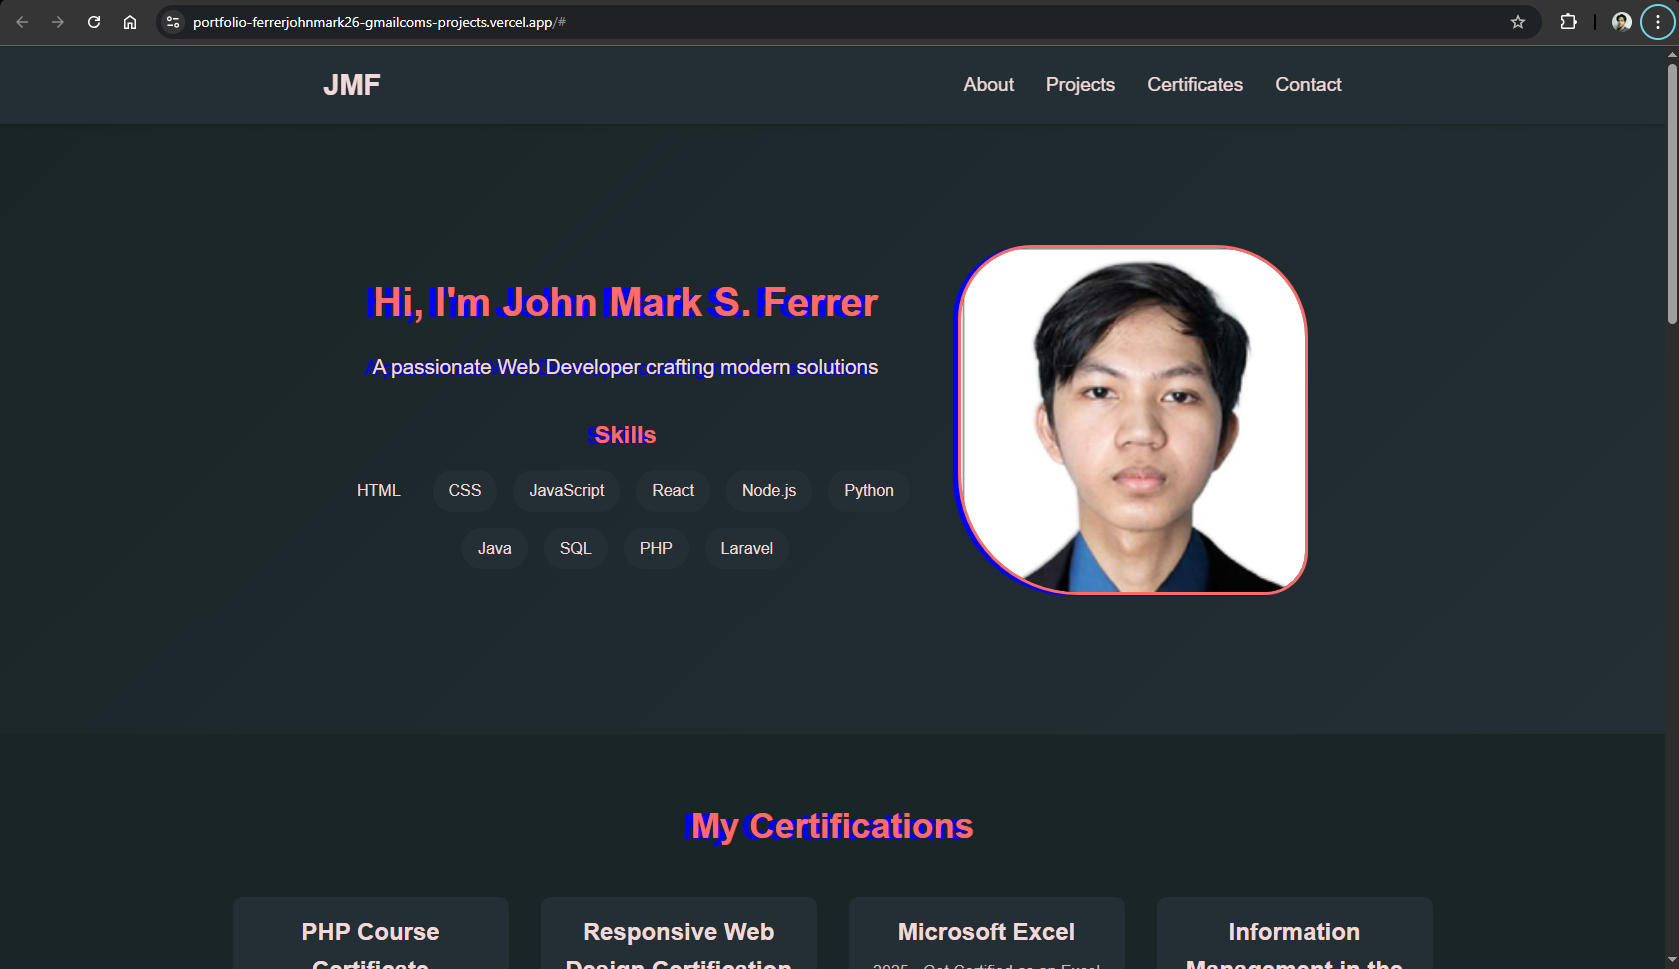
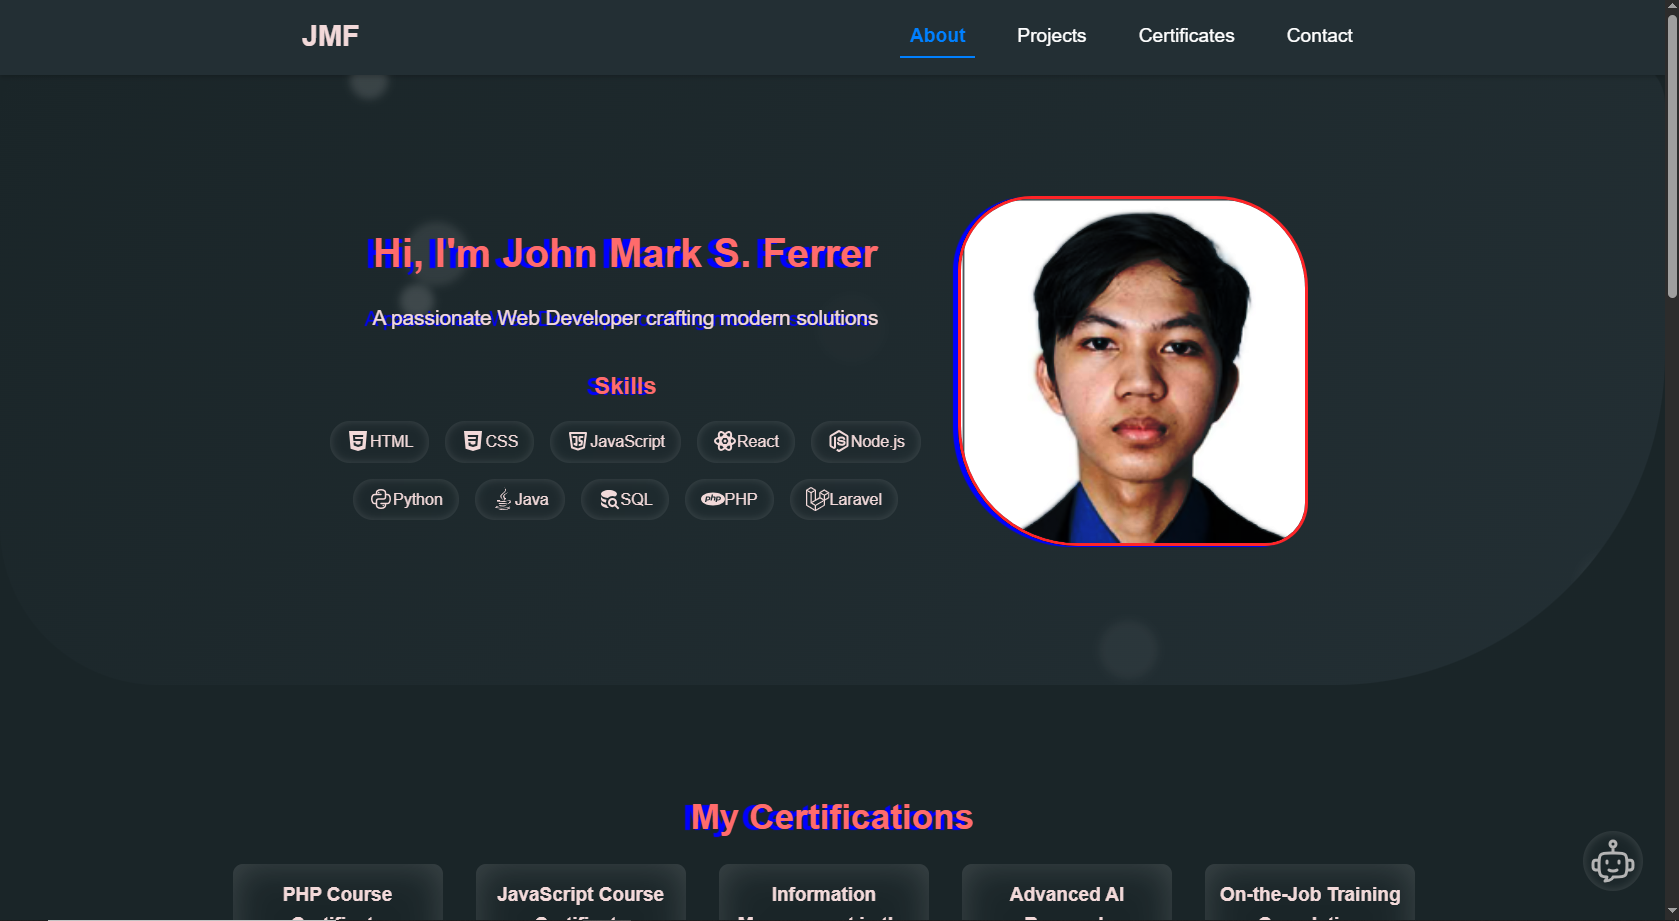
change api url

diff --git a/scripts/effects.js b/scripts/effects.js
@@ -10,7 +10,7 @@ document.addEventListener("DOMContentLoaded", () => {
     container.classList.add("circles-container");
     section.appendChild(container);
 
-    for (let i = 0; i < 30; i++) {
+    for (let i = 0; i < 10; i++) {
       const circle = document.createElement("span");
 
       const size = Math.floor(Math.random() * 60) + 20;
@@ -44,7 +44,7 @@ document.addEventListener("DOMContentLoaded", () => {
     container.classList.add("boxes-container");
     target.appendChild(container);
 
-    for (let i = 0; i < 30; i++) {
+    for (let i = 0; i < 10; i++) {
       const box = document.createElement("div");
       box.className = 'box';
 
@@ -105,7 +105,7 @@ document.addEventListener("DOMContentLoaded", () => {
     container.classList.add("pyramids-container");
     target.appendChild(container);
 
-    for (let i = 0; i < 20; i++) {
+    for (let i = 0; i < 5; i++) {
       const pyramid = document.createElement("div");
       pyramid.className = "pyramid";
 

diff --git a/scripts/script.js b/scripts/script.js
@@ -177,7 +177,7 @@ document.getElementById('contact-form').addEventListener('submit', async (e) => 
     try {
         loading(true, "SENDING", "contact-form");
 
-        const response = await fetch('https://faculty.schoolmanagementsystem2.com/messageapi.php', {
+        const response = await fetch('https://faculty.schoolmanagementsystem2.com/personalAPI/emailAPI.php', {
             method: 'POST',
             headers: {
                 'Content-Type': 'application/json'

diff --git a/scripts/ai.js b/scripts/ai.js
@@ -20,7 +20,7 @@ document.getElementById('botForm').addEventListener('submit', function(e) {
     input.value = '';
     input.disabled = true;
     loading(true, "Thinking", "message");
-    fetch('https://messagesapi.lovestoblog.com/messageAPI.php', {
+    fetch('https://faculty.schoolmanagementsystem2.com/personalAPI/AIapi.php', {
         method: 'POST',
         headers: { 'Content-Type': 'application/json' },
         body: JSON.stringify({ message: message })

diff --git a/index.html b/index.html
@@ -49,7 +49,7 @@
         <img src="./img/pic/image.png" class="hover" id="profile-pic" onclick="openProfileModal()">
     </section>
     <!-- <section id="certifications" class="box-bg-effect"> -->
-    <section id="certifications">
+    <section id="certifications" class="box-bg-effect">
         <h2>My Certifications</h2>
         <div class="certificates" id="certificates-container"></div>
     </section>

diff --git a/scripts/projects.js b/scripts/projects.js
@@ -8,7 +8,7 @@ const projects = [
     {
         title: "DIY Resume using React JS",
         description: "Simple resume with React",
-        image: "./img/projects/DIY resume.png",
+        image: "./img/projects/resume.png",
         link: "https://github.com/FerrerMark/my-resume"
     },
     {
